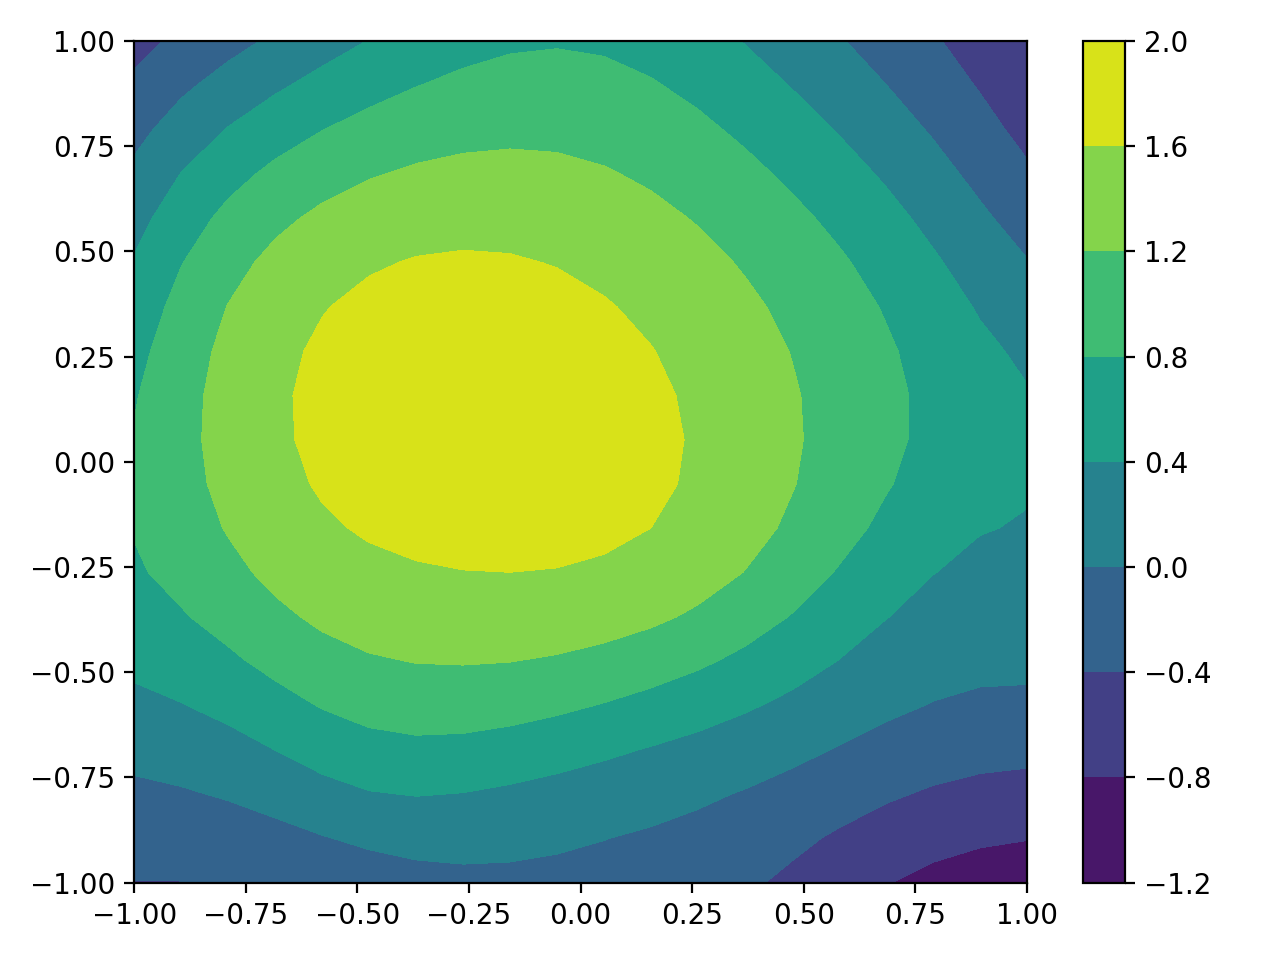
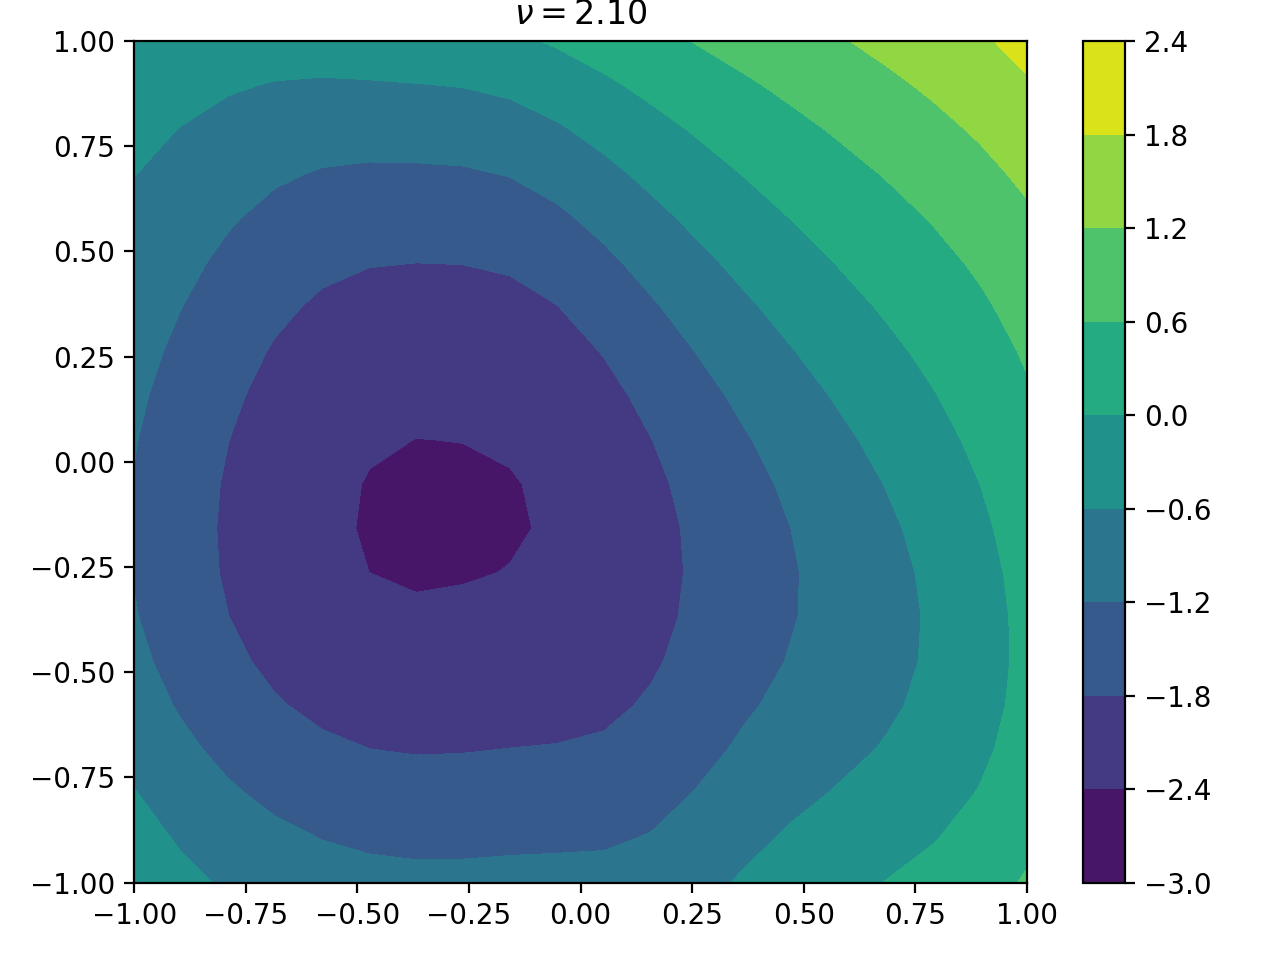
Helmholtz simu

diff --git a/helmholtz_2d/main.py b/helmholtz_2d/main.py
@@ -8,20 +8,21 @@ from NN_models.train_nn import single_train, plot_loss
 import matplotlib.pyplot as plt
 
 
-def main(num_epoch=20000, ratio=0.3):
-    x, y, y_noise, index = data_load(save_path='xy_data')
+def main(num_epoch=20000, ratio=0.2, save_path = 'xy_data'):
+    x, y, y_noise, index = data_load(save_path=save_path)
     # y = y[:, np.newaxis]
     num_samples = len(x)
     index = index[: int(num_samples*ratio)]
     y_noise = y_noise[:, np.newaxis]
-    mode_list = ['vanilla',  'physics_informed', 'physics_constrained']
+    # y_noise = y[:, np.newaxis]
+    mode_list = ['vanilla', 'physics_informed', 'physics_constrained']
     loss_dic = {}
     for mode in mode_list:
         print('\n\n' + '=' * 60 + '\n' + '\tMode: %s' % mode + '\n')
         loss_dic[mode] = single_train(x=x[index], y=y_noise[index], mode=mode, width=10, num_epoch=num_epoch)
         test_single_trained_model(mode=mode)
     #
-    plot_loss(mode_list=mode_list, loss_dic=loss_dic)
+    plot_loss(mode_list=mode_list, loss_dic=loss_dic, save_path=save_path)
     #
     # test(x=x, y=y, mode_list=mode_list)
 
@@ -39,6 +40,8 @@ def test_single_trained_model(n=20, mode='vanilla', fig_save_path='xy_data'):
     plt.colorbar()
     plt.tight_layout()
     fig_name = os.path.join(fig_save_path, '%s.png' % mode)
+    if 'informed' in mode:
+        plt.title(r'$\nu=%.2f$' % model.nu)
     plt.savefig(fig_name, dpi=200)
     echo('fig saved as %s' % fig_name)
     plt.close()
@@ -86,5 +89,4 @@ def plot_cut_line(n=20, save_path='xy_data'):
 
 if __name__ == '__main__':
     main()
-    test_single_trained_model()
     plot_cut_line()

diff --git a/NN_models/train_nn.py b/NN_models/train_nn.py
@@ -1,3 +1,5 @@
+import os.path
+
 from NN_models.network import net_basic
 import torch
 import numpy as np
@@ -20,7 +22,12 @@ def single_train(x, y, num_epoch, mode='physics_constrained', width=10):
         else:
             y_pre, ddy_pre = model.forward_ddy(x_tensor)
             loss = loss_operator(y_pre, y_tensor) + \
-                   1. * loss_operator(ddy_pre.sum(-1, keepdim=True), -model.nu**2. * y_tensor)
+                   0.0001 * loss_operator(ddy_pre.sum(-1, keepdim=True), -model.nu**2. * y_pre)
+            '''
+                NOTE: the lambda here should be carefully selected according to 
+                 [1] why PINNS fail to train: https://www.sciencedirect.com/science/article/pii/S002199912100663X
+            '''
+
         loss.backward()
         optim.step()
         if epoch % 100 == 0:
@@ -36,7 +43,7 @@ def single_train(x, y, num_epoch, mode='physics_constrained', width=10):
     return np.array(loss_list)
 
 
-def plot_loss(mode_list, loss_dic: dict):
+def plot_loss(mode_list, loss_dic: dict, save_path: str=None):
     for mode in mode_list:
         epoch = loss_dic[mode][:, 0]
         loss = loss_dic[mode][:, 1]
@@ -44,4 +51,10 @@ def plot_loss(mode_list, loss_dic: dict):
     plt.yscale('log')
     plt.legend()
     plt.tight_layout()
-    plt.show()
+    if save_path is not None:
+        name = os.path.join(save_path, 'training_loss.png')
+        plt.savefig(name, dpi=200)
+        echo('The training loss is saved as %s' % name)
+    else:
+        plt.show()
+    plt.close()

diff --git a/helmholtz_2d/helmholtz_2d_data_gen.py b/helmholtz_2d/helmholtz_2d_data_gen.py
@@ -43,11 +43,13 @@ def data_gen(n=20, save_path='xy_data', gaussian_flag=True, noise=0.1):
 
 def data_save(x, y, y_noise, save_path='xy_data'):
     check_mkdir(save_path)
-    np.save(os.path.join(save_path, 'x.npy'), x)
+    x_name = os.path.join(save_path, 'x.npy')
+    np.save(x_name, x)
     np.save(os.path.join(save_path, 'y.npy'), y)
     np.save(os.path.join(save_path, 'y_noise.npy'), y_noise)
     index = np.random.permutation(np.arange(len(x)))
     np.save(os.path.join(save_path, 'index.npy'), index)
+    echo('Data saved as %s' % x_name)
 
 
 def data_load(save_path = 'xy_data'):

diff --git a/README.md b/README.md
@@ -58,14 +58,18 @@ While, this problem can be solved by using the
 ![equation](https://latex.codecogs.com/svg.image?f) from training datasets instead of prediction.
 What we want to discuss is the question that **how to avoid the NN prediction goes to 0 to 
 satisfy the physics term**. 
-We tried to decrease the weight of the physics term, but it doesn't work.
+We tried to decrease the weight of the physics term, and it works when the weight decreases to **1e-4**. Thi problem is 
+mentioned in [when and why PINNs fail to train](https://www.sciencedirect.com/science/article/pii/S002199912100663X).
 - Trained ont he with the datasets generated with the same Bessel kernel where 
 ![equation](https://latex.codecogs.com/svg.image?k=2), the PINN can have 
 different value of 
 ![equation](https://latex.codecogs.com/svg.image?\nu) which should be the converged at a same 
 value except the value of 
-![equation](https://latex.codecogs.com/svg.image?k) changed. **There maybe something wrong with the 
-code or the theory.**
+![equation](https://latex.codecogs.com/svg.image?k) changed. 
+After checking we found the value of ![equation](https://latex.codecogs.com/svg.image?\nu) is 
+ diverge from 
+![equation](https://latex.codecogs.com/svg.image?k=2), most likely to be around 2.0.
+**There maybe something wrong with the code or the theory.** 
 
     
 | ![space-1.jpg](./helmholtz_2d/xy_data/contourf_helmholtz_noise.png) | ![space-1.jpg](./helmholtz_2d/xy_data/contourf_helmholtz_Truth.png) |
